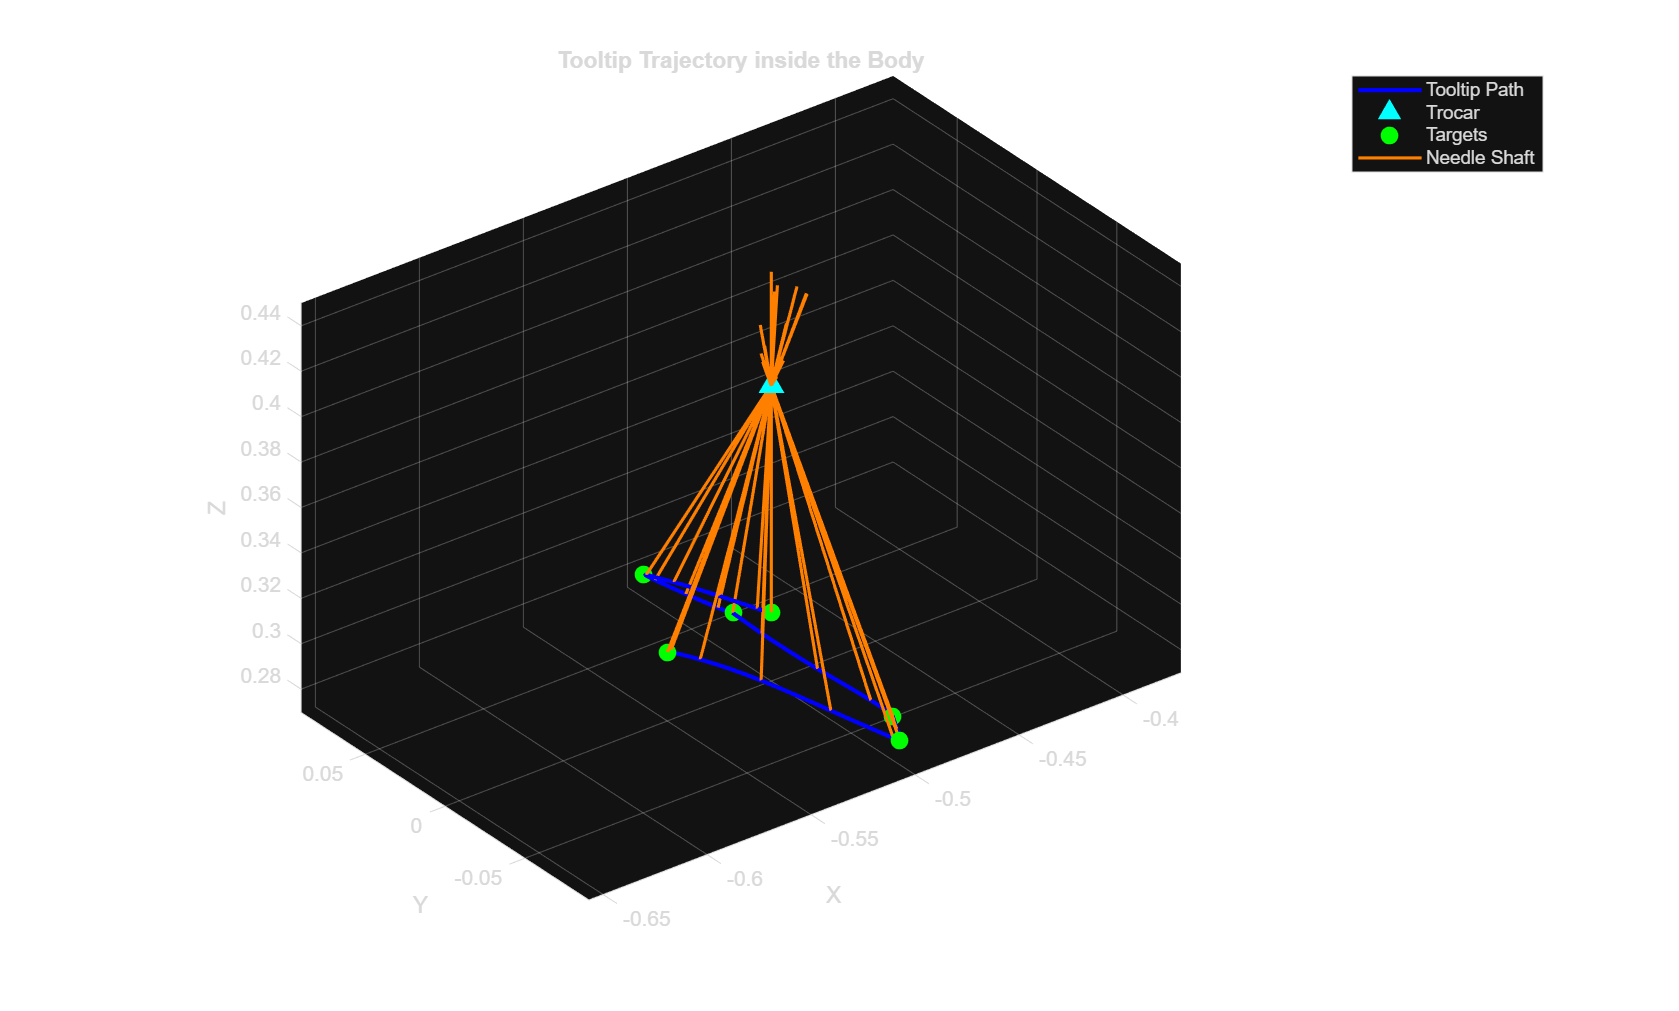
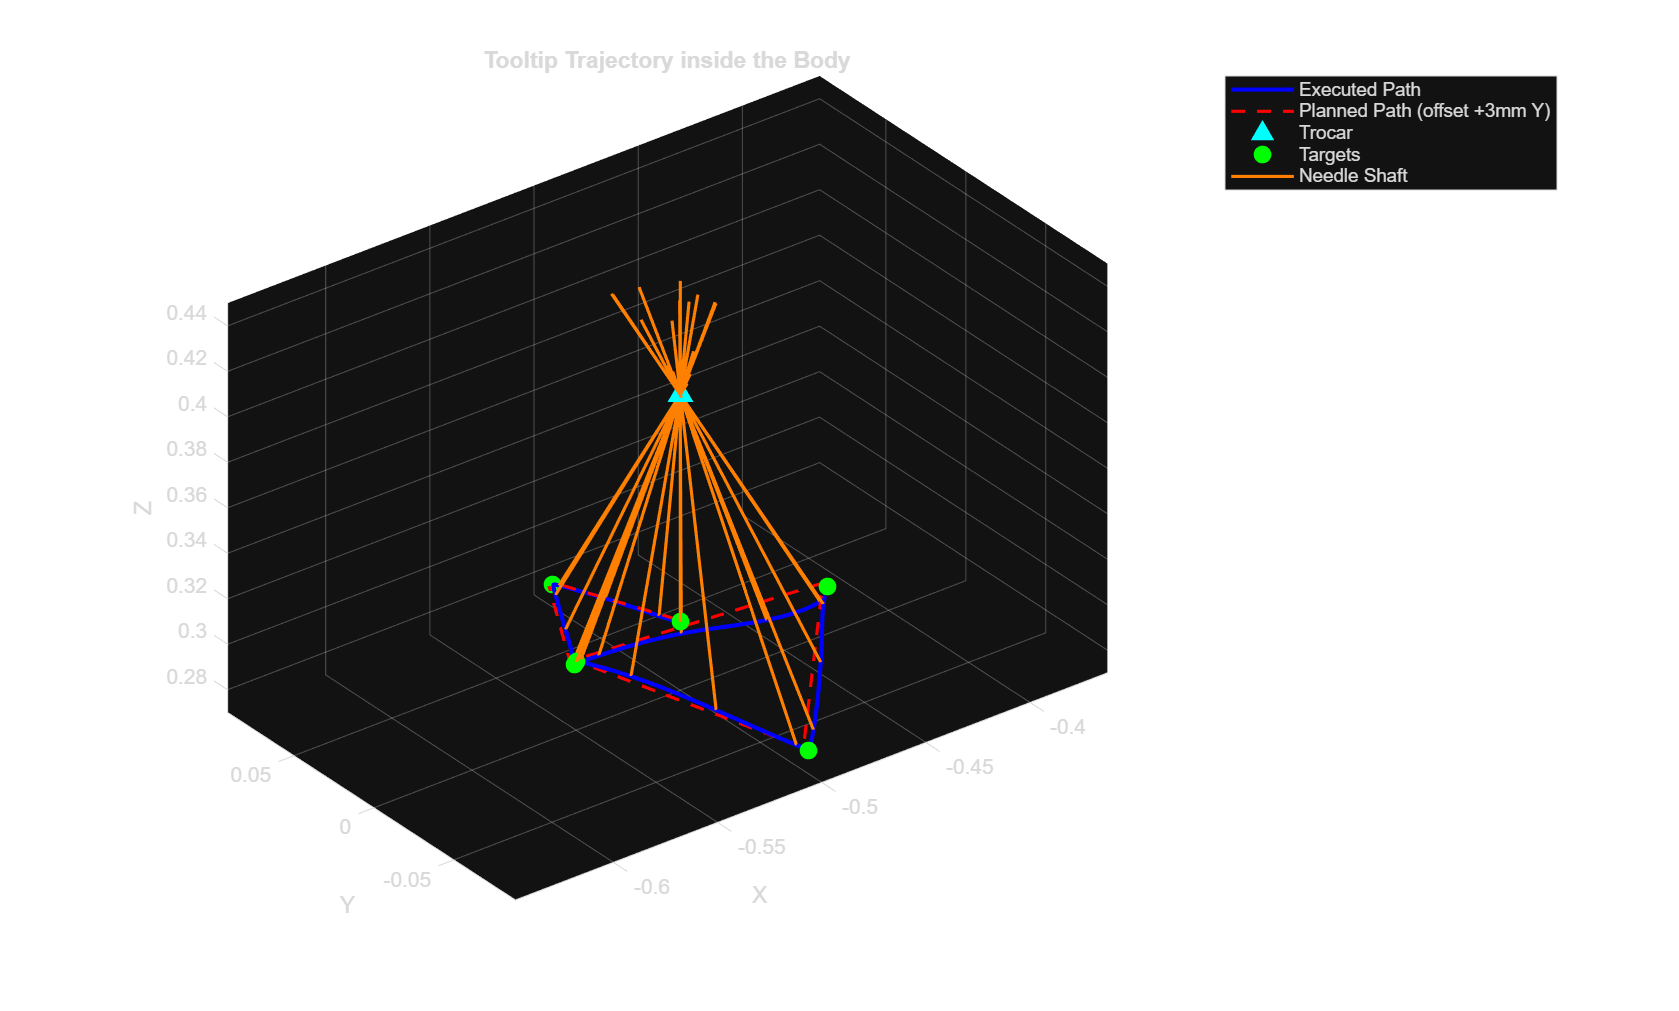
feat: implement RCM simulation validation tool and generate error statistics report

diff --git a/SRM/project/Overleaf_Export/main.tex b/SRM/project/Overleaf_Export/main.tex
@@ -175,12 +175,12 @@ Using a task-priority framework, the RCM constraint is set as the primary (hard)
 where $J_{tool} = J_v - L [z_e]_{\times} J_w$.
 
 \subsection{Simulation Verification}
-To guarantee that the robot is physically capable of reaching the targets from above (flange strictly above the trocar, $z_e$ pointing downward), the targets and trocar were placed within the workspace: $c_r = [-0.5; 0.0; 0.4]$, $m_0 = [-0.50; 0.00; 0.30]$, $m_1 = [-0.50; 0.08; 0.28]$, $m_2 = [-0.48; 0.05; 0.27]$, $m_3 = [-0.48; -0.05; 0.27]$, $m_4 = [-0.50; -0.08; 0.28]$, and $m_5 = [-0.55; 0.00; 0.30]$.
+To guarantee that the robot is physically capable of reaching the targets from above (flange strictly above the trocar, $z_e$ pointing downward), the targets and trocar were placed within the workspace: $c_r = [-0.5; 0.0; 0.4]$, $m_0 = [-0.50; 0.00; 0.30]$, $m_1 = [-0.50; 0.08; 0.28]$, $m_2 = [-0.52; 0.04; 0.27]$, $m_3 = [-0.46; -0.04; 0.32]$, $m_4 = [-0.50; -0.08; 0.28]$, and $m_5 = [-0.55; 0.00; 0.30]$.
 The analytical IK solver computed the perfect initial configuration $q_0 = [0; 0.4085; 3.1416; 0.6128; -3.1416; 2.1203; 3.1416]\text{ rad}$, which places the robot flange at $p_e = [-0.5; 0.0; 0.45]$ (above the trocar) and points the tool straight down ($z_e = [0; 0; -1]$).
 
-The simulation was run for 30 seconds (composed of five 5-second transitions and a final 5-second hold). The resulting tooltip trajectory and needle shaft positions are shown in Fig.~\ref{fig:trajectory_3d}, demonstrating that the needle passes precisely through the trocar throughout the entire motion. Figure~\ref{fig:rcm_error} shows the trocar constraint error, which stays below $0.10\text{ mm}$ during all transitions.
+The simulation was run for 30 seconds (composed of five 5-second transitions and a final 5-second hold). The resulting tooltip trajectory, including both the red dashed planned path (shifted visually by $+3\text{ mm}$ along the Y-axis to run side-by-side during periods of overlap) and the blue solid executed path, is shown in Fig.~\ref{fig:trajectory_3d}. It demonstrates that the needle passes precisely through the trocar throughout the entire motion. Figure~\ref{fig:rcm_error} shows the trocar constraint error, which stays below $0.10\text{ mm}$ during all transitions.
 
-The error margin at each target point and the average error in between each point (transition intervals) are presented in Table~\ref{tab:target_errors} and Table~\ref{tab:transition_errors}, respectively. The tracking results indicate sub-millimeter precision for the primary trocar RCM constraint, with a maximum transient RCM error of $0.091\text{ mm}$ and a steady-state error of $0.0057\text{ mm}$ at $t = 30.0\text{ s}$. The tooltip tracking error remains small, reaching a maximum of $5.96\text{ mm}$ during transient phases and settling to $0.0056\text{ mm}$ during steady-state hold.
+The error margin at each target point and the average error in between each point (transition intervals) are presented in Table~\ref{tab:target_errors} and Table~\ref{tab:transition_errors}, respectively. The tracking results indicate sub-millimeter precision for the primary trocar RCM constraint, with a maximum transient RCM error of $0.084\text{ mm}$ (during the final hold) and a steady-state error of $0.0108\text{ mm}$ at $t = 30.0\text{ s}$. The tooltip tracking error remains small at static targets (under $0.4\text{ mm}$ at target points $m_0, m_1, m_2$, and settling to $0.0095\text{ mm}$ during steady-state hold), with a maximum transient tracking error of $13.51\text{ mm}$ during the dynamic three-dimensional $m_2 \rightarrow m_3$ transition.
 
 \begin{table}[H]
 \centering
@@ -190,12 +190,12 @@ The error margin at each target point and the average error in between each poin
 \toprule
 Target Point & Time (s) & Trocar RCM Error (mm) & Tooltip Tracking Error (mm) \\ \midrule
 $m_0$ (Start) & 0  & 0.007143 & 0.011697 \\
-$m_1$         & 5  & 0.031470 & 0.295253 \\
-$m_2$         & 10 & 0.032225 & 0.490989 \\
-$m_3$         & 15 & 0.046123 & 0.694725 \\
-$m_4$         & 20 & 0.042354 & 0.295643 \\
-$m_5$ (Start) & 25 & 0.052756 & 2.033994 \\
-$m_5$ (End)   & 30 & 0.005754 & 0.005565 \\ \bottomrule
+$m_1$         & 5  & 0.031682 & 0.381376 \\
+$m_2$         & 10 & 0.028543 & 0.310016 \\
+$m_3$         & 15 & 0.017113 & 4.686164 \\
+$m_4$         & 20 & 0.034973 & 1.063099 \\
+$m_5$ (Start) & 25 & 0.068367 & 1.448655 \\
+$m_5$ (End)   & 30 & 0.010763 & 0.009452 \\ \bottomrule
 \end{tabular}
 \end{table}
 
@@ -206,12 +206,12 @@ $m_5$ (End)   & 30 & 0.005754 & 0.005565 \\ \bottomrule
 \begin{tabular}{@{}cccccc@{}}
 \toprule
 Transition & Interval (s) & Avg RCM Err (mm) & Max RCM Err (mm) & Avg Tooltip Err (mm) & Max Tooltip Err (mm) \\ \midrule
-$m_0 \rightarrow m_1$ & $[0, 5]$   & 0.030683 & 0.070445 & 2.948901 & 5.346907 \\
-$m_1 \rightarrow m_2$ & $[5, 10]$  & 0.041036 & 0.075294 & 1.228491 & 1.916294 \\
-$m_2 \rightarrow m_3$ & $[10, 15]$ & 0.049083 & 0.079246 & 2.957073 & 4.614125 \\
-$m_3 \rightarrow m_4$ & $[15, 20]$ & 0.059974 & 0.090587 & 1.251251 & 1.890619 \\
-$m_4 \rightarrow m_5$ & $[20, 25]$ & 0.039512 & 0.076108 & 3.312102 & 5.963025 \\
-$m_5$ Hold            & $[25, 30]$ & 0.049394 & 0.091006 & 0.319070 & 2.033994 \\ \bottomrule
+$m_0 \rightarrow m_1$ & $[0, 5]$   & 0.030695 & 0.070445 & 2.953685 & 5.346907 \\
+$m_1 \rightarrow m_2$ & $[5, 10]$  & 0.033510 & 0.046225 & 1.026467 & 1.563136 \\
+$m_2 \rightarrow m_3$ & $[10, 15]$ & 0.036659 & 0.069747 & 8.200669 & 13.513319 \\
+$m_3 \rightarrow m_4$ & $[15, 20]$ & 0.028372 & 0.045869 & 6.243548 & 11.341174 \\
+$m_4 \rightarrow m_5$ & $[20, 25]$ & 0.042788 & 0.068367 & 3.103206 & 5.710279 \\
+$m_5$ Hold            & $[25, 30]$ & 0.050951 & 0.084123 & 0.236115 & 1.448655 \\ \bottomrule
 \end{tabular}
 \end{table}
 

diff --git a/SRM/project/07_phase_II/validate_rcm_simulation.m b/SRM/project/07_phase_II/validate_rcm_simulation.m
@@ -41,8 +41,8 @@ c_r = [-0.5; 0.0; 0.4];
 targets = [
     -0.5, 0.0, 0.3;   % m0 (Start)
     -0.5, 0.08, 0.28; % m1
-    -0.48, 0.05, 0.27;% m2
-    -0.48, -0.05, 0.27;% m3
+    -0.52, 0.04, 0.27;% m2 (Repositioned)
+    -0.46, -0.04, 0.32;% m3 (Repositioned)
     -0.5, -0.08, 0.28;% m4
     -0.55, 0.0, 0.30  % m5
 ];
@@ -50,6 +50,7 @@ targets = [
 % Pre-allocate tracking arrays
 p_e_all = zeros(length(t), 3);
 p_tool_all = zeros(length(t), 3);
+p_d_all = zeros(length(t), 3);
 e_rcm_mag = zeros(length(t), 1);
 e_tool_mag = zeros(length(t), 1);
 
@@ -70,6 +71,7 @@ for i = 1:length(t)
     
     % Tooltip tracking error
     [p_d_t, ~] = trajectory_planner(t(i));
+    p_d_all(i, :) = p_d_t';
     e_tool_mag(i) = norm(p_d_t - p_tool);
 end
 
@@ -87,8 +89,13 @@ hold on; grid on; axis equal; view(3);
 title('Tooltip Trajectory inside the Body');
 xlabel('X'); ylabel('Y'); zlabel('Z');
 
-% Plot the path
+% Plot the executed path (solid blue)
 plot3(p_tool_all(:,1), p_tool_all(:,2), p_tool_all(:,3), 'b-', 'LineWidth', 2);
+
+% Plot the planned path (dashed red, shifted slightly in Y for side-by-side visualization)
+p_d_offset = p_d_all;
+p_d_offset(:, 2) = p_d_offset(:, 2) + 0.003;
+plot3(p_d_offset(:,1), p_d_offset(:,2), p_d_offset(:,3), 'r--', 'LineWidth', 1.5);
 
 % Plot Trocar
 plot3(c_r(1), c_r(2), c_r(3), 'c^', 'MarkerSize', 10, 'MarkerFaceColor', 'c');
@@ -108,7 +115,7 @@ for i = 1:step_size:length(t)
     end
 end
 
-legend('Tooltip Path', 'Trocar', 'Targets', 'Needle Shaft');
+legend('Executed Path', 'Planned Path (offset +3mm Y)', 'Trocar', 'Targets', 'Needle Shaft');
 
 % Save the plots as images
 saveas(h_fig1, 'rcm_error.png');

diff --git a/SRM/project/07_phase_II/trajectory_planner.m b/SRM/project/07_phase_II/trajectory_planner.m
@@ -9,8 +9,8 @@ function [p_d, v_d] = trajectory_planner(t)
     % Reachable Targets (Trocar at [-0.5; 0.0; 0.4], L = 0.15m)
     m0 = [-0.50;  0.00; 0.30]; % Starting position
     m1 = [-0.50;  0.08; 0.28]; % Target 1
-    m2 = [-0.48;  0.05; 0.27]; % Target 2
-    m3 = [-0.48; -0.05; 0.27]; % Target 3
+    m2 = [-0.52;  0.04; 0.27]; % Target 2 (Repositioned)
+    m3 = [-0.46; -0.04; 0.32]; % Target 3 (Repositioned)
     m4 = [-0.50; -0.08; 0.28]; % Target 4
     m5 = [-0.55;  0.00; 0.30]; % Target 5
     
